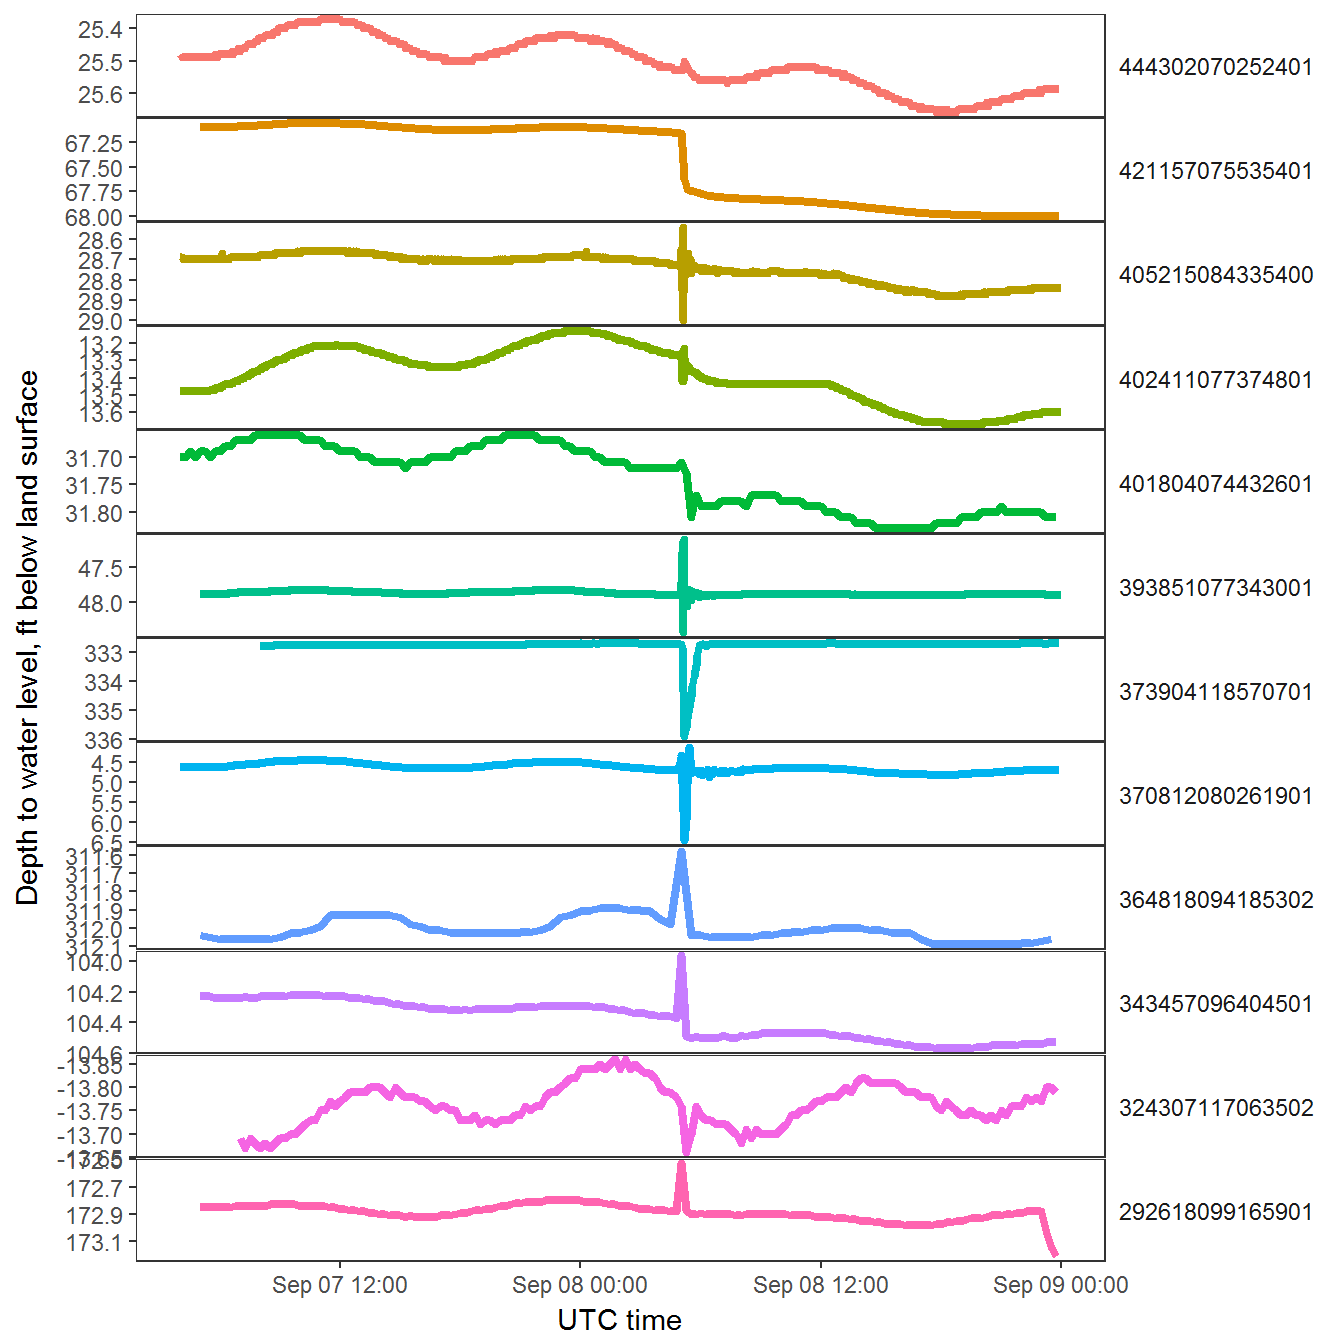
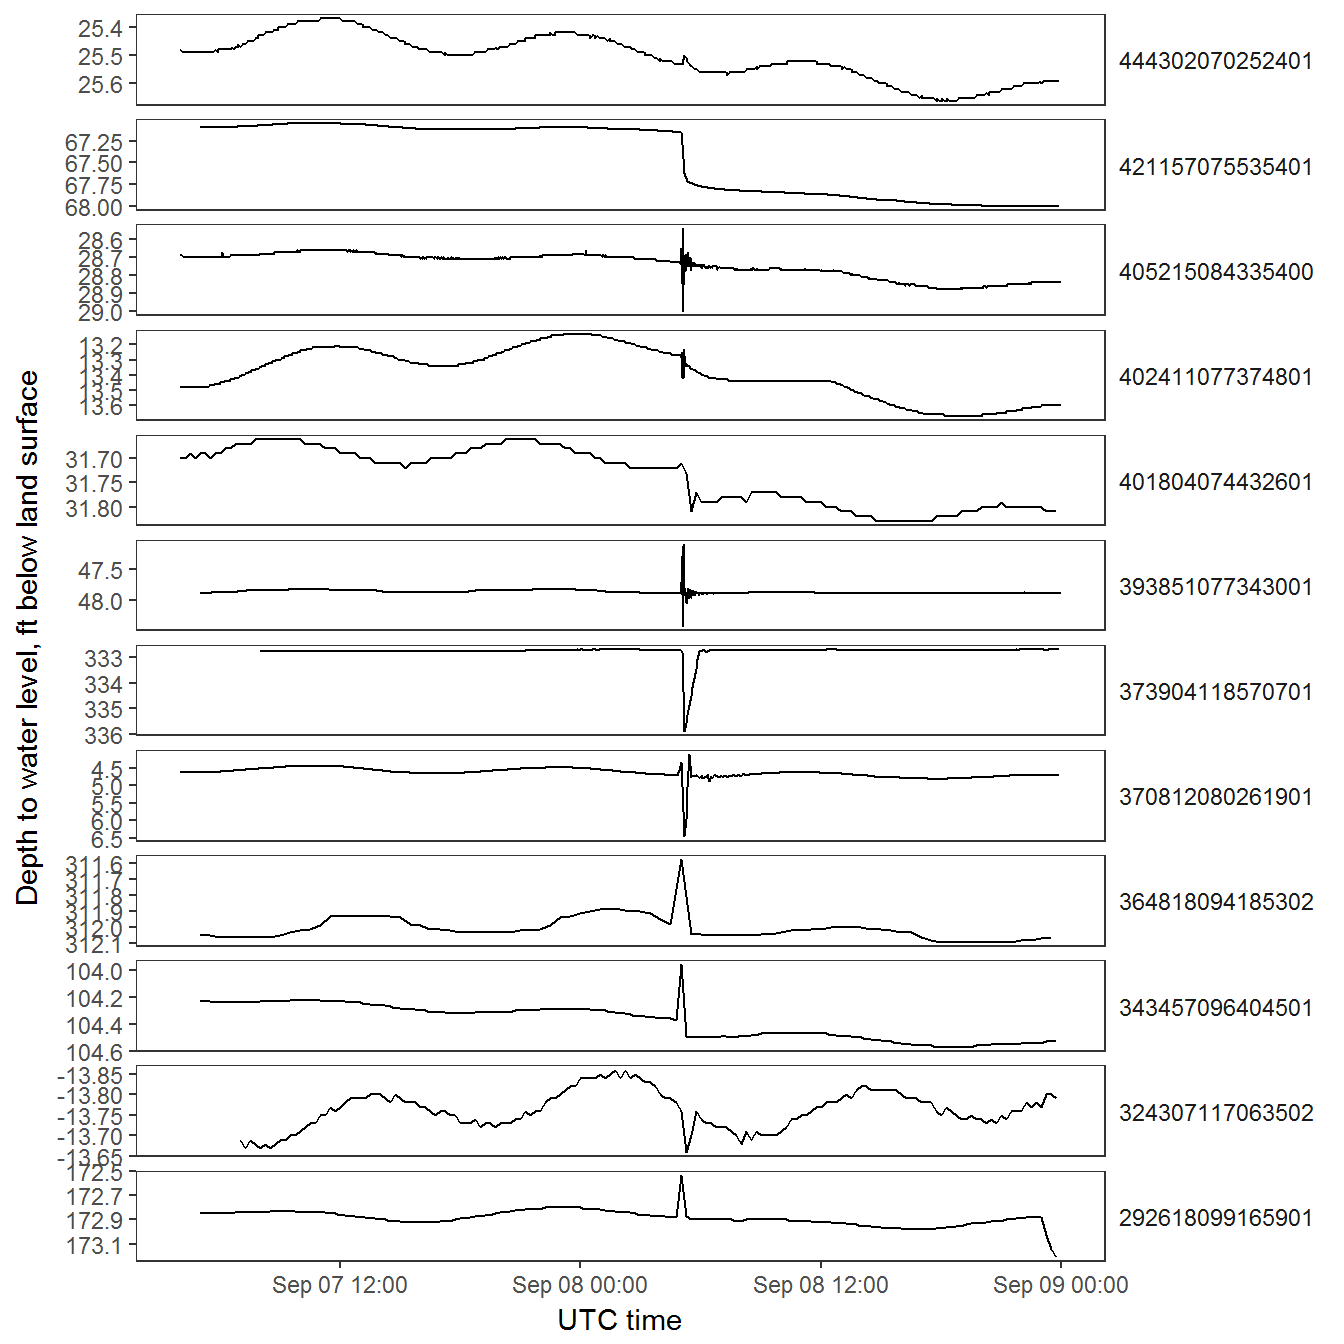
Realized it would make more sense in the story to not start out with a color graph

diff --git a/content/earthquake.md b/content/earthquake.md
@@ -104,8 +104,7 @@ Since the y-axis is quite different between sites, it seemed to make the most se
 library(ggplot2)
 
 depth_plot <- ggplot(data = gw_data_sub) +
-  geom_line(aes(x = dateTime, y = X_72019_00000, 
-                color = site_no), size = 1.5) +
+  geom_line(aes(x = dateTime, y = X_72019_00000)) +
   theme_bw() +
   scale_y_continuous(trans = "reverse") +
   facet_grid(site_no ~ ., scales = "free") +
@@ -114,9 +113,7 @@ depth_plot <- ggplot(data = gw_data_sub) +
   theme(strip.background = element_blank(),
         strip.text.y = element_text(angle = 0),
         panel.grid.major = element_blank(), 
-        panel.grid.minor = element_blank(),
-        legend.position="none",
-        panel.spacing.y=unit(0.04, "lines"))
+        panel.grid.minor = element_blank())
 
 depth_plot
 ```
